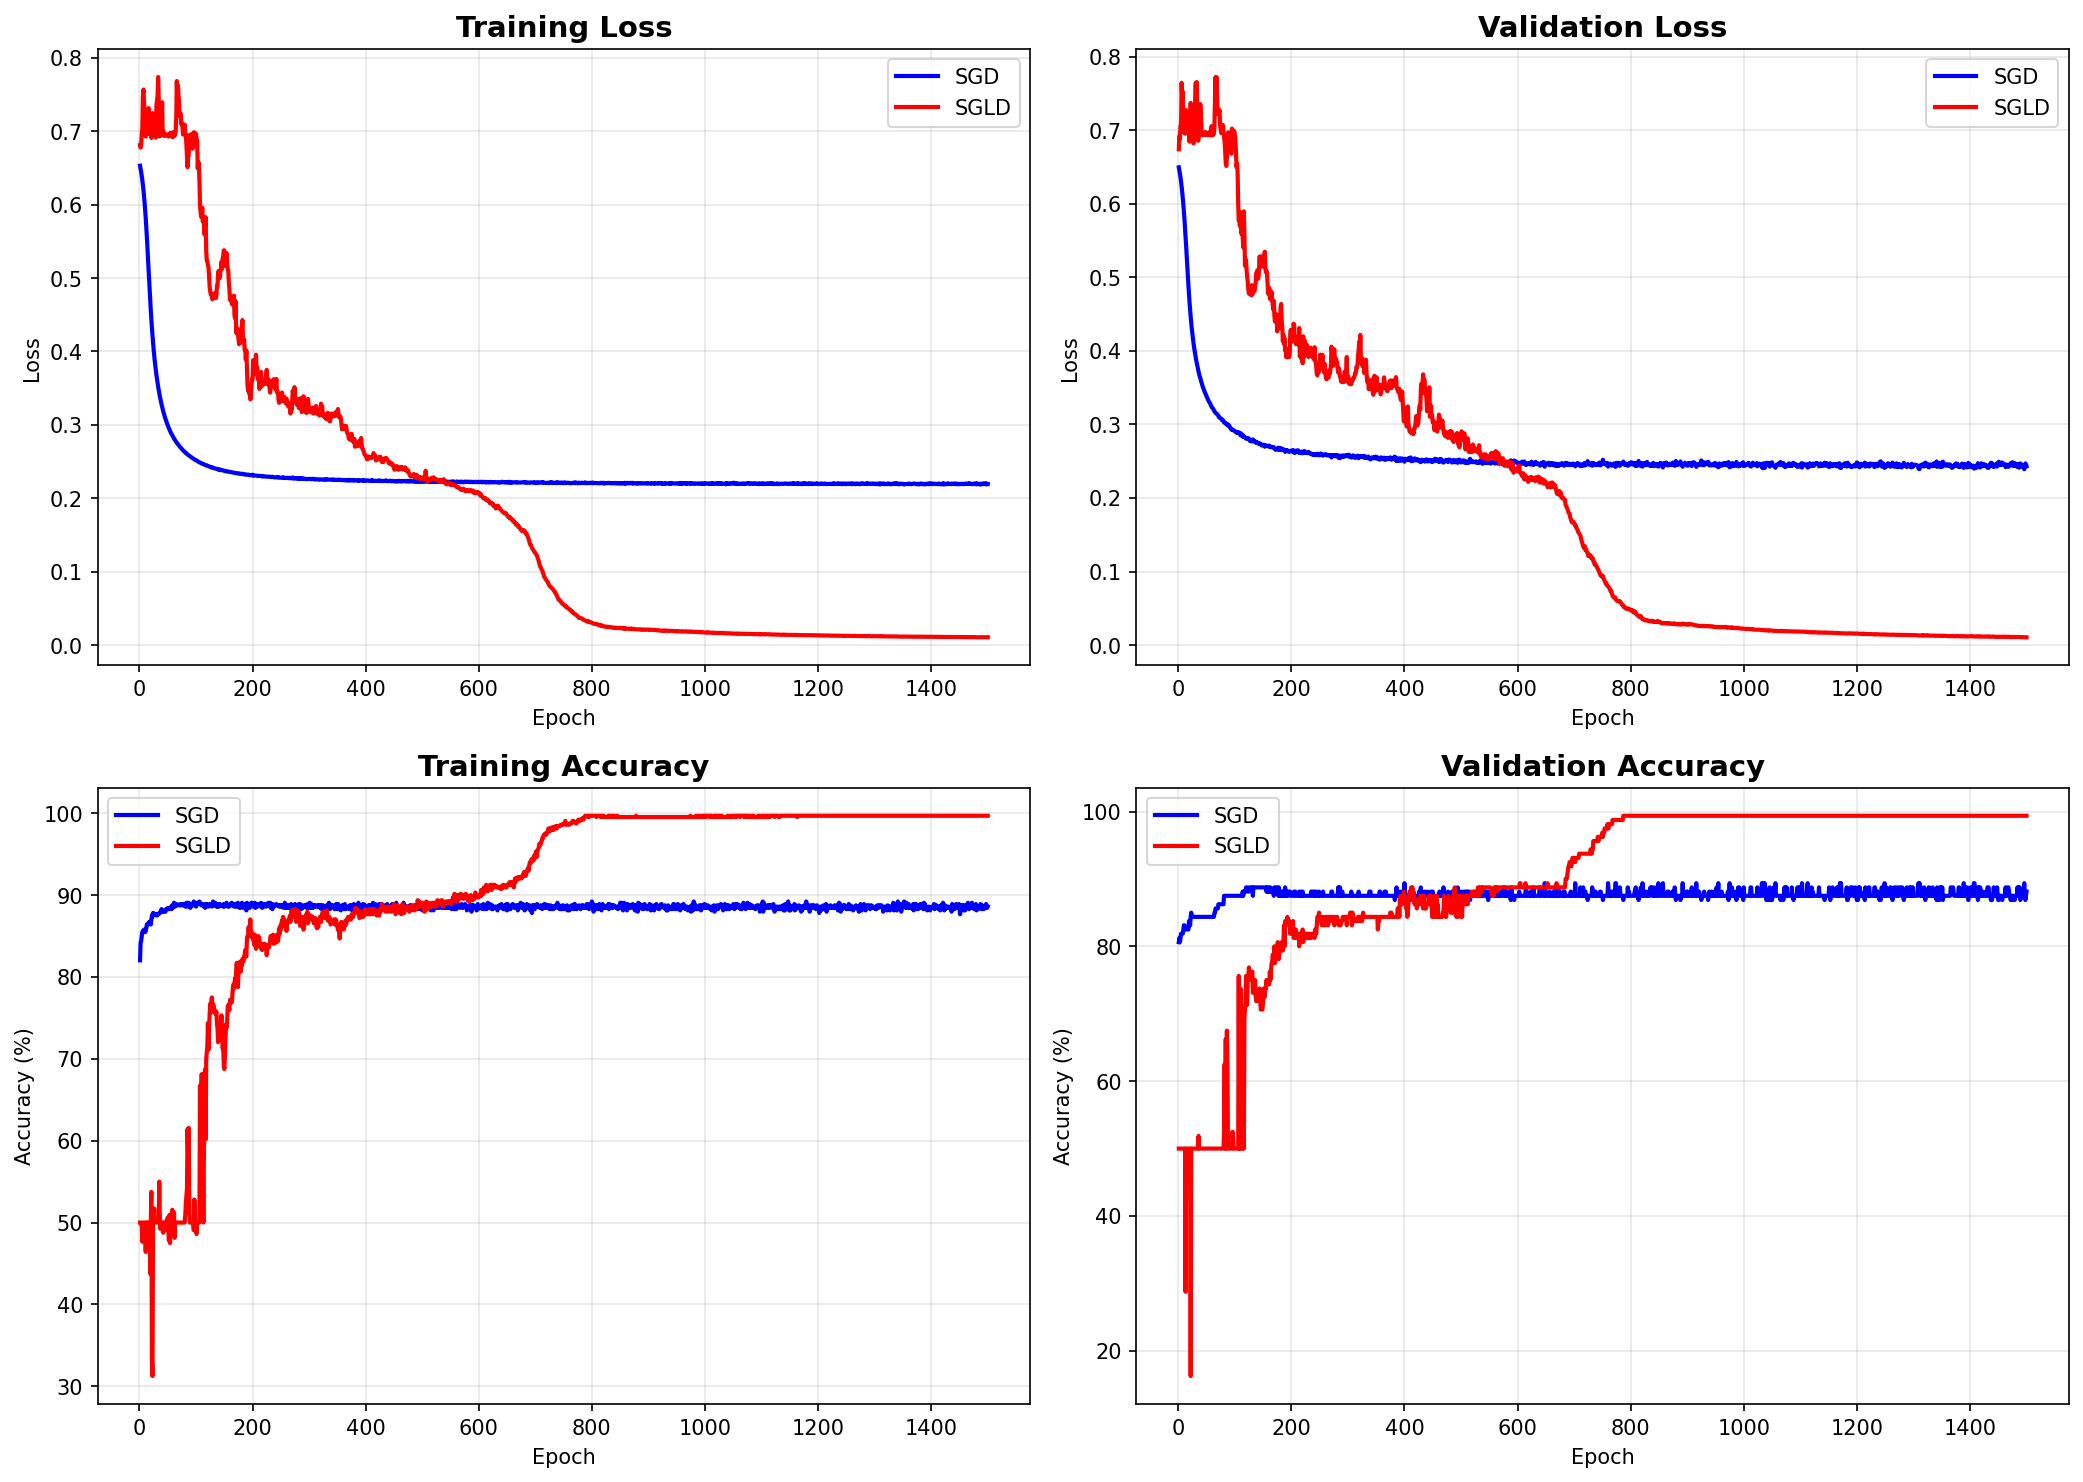
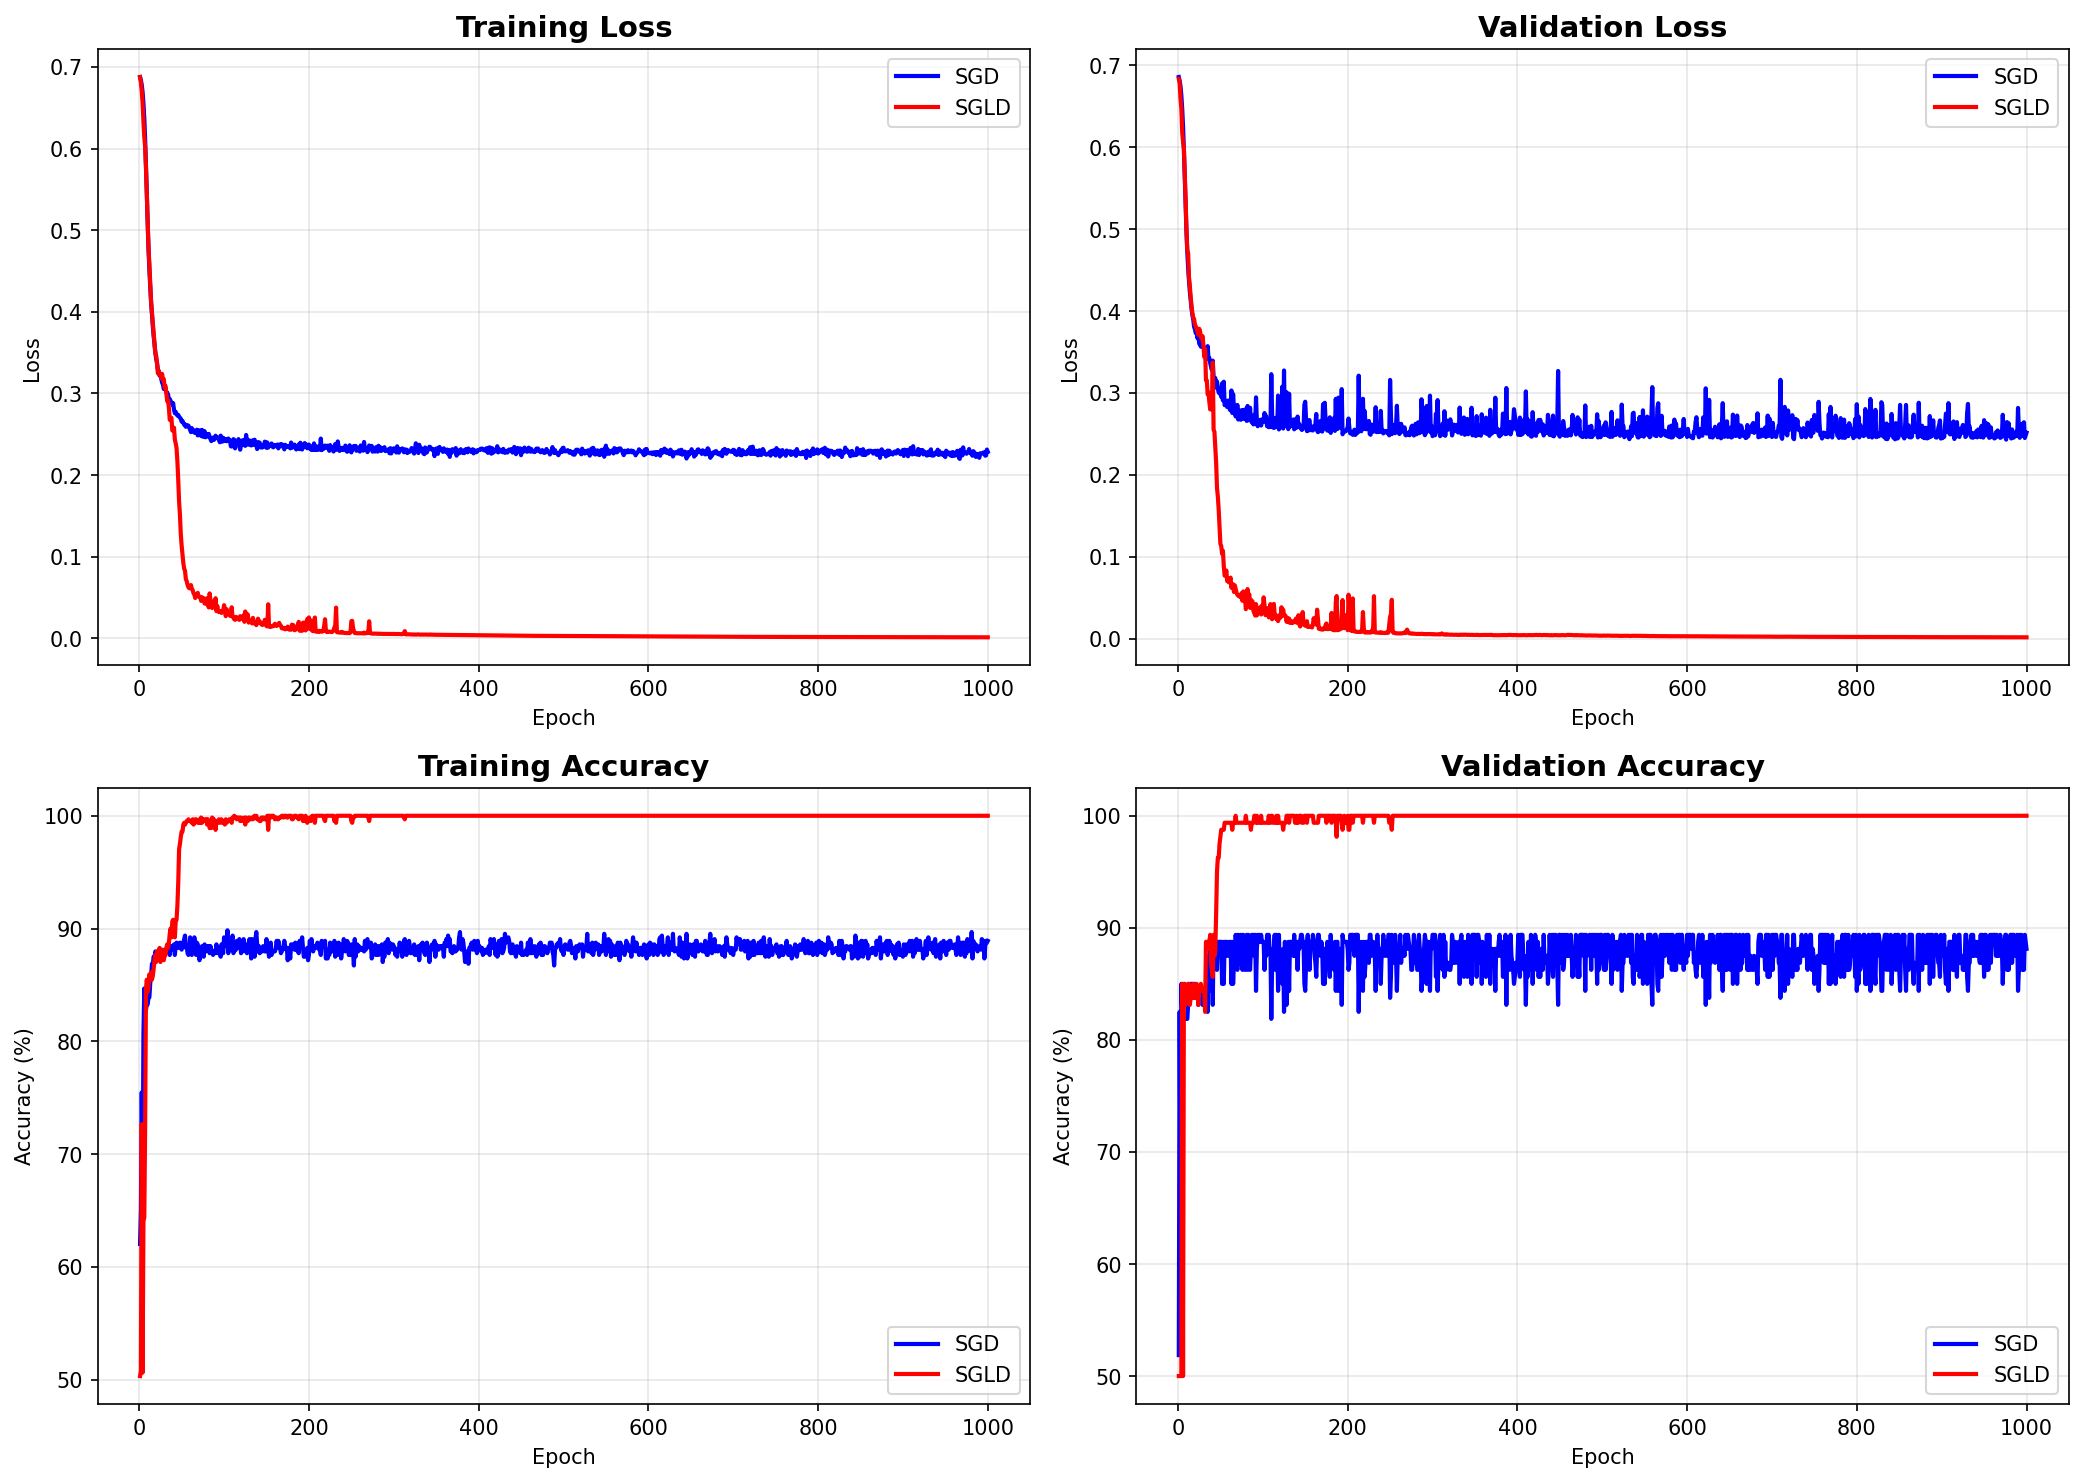
Improved experiment

diff --git a/submission/exp_2/experiment.py b/submission/exp_2/experiment.py
@@ -96,8 +96,8 @@ def train_model(model, train_loader, val_loader, optimizer, num_epochs, device, 
             else:
                 print(f'{optimizer_name} Epoch {epoch+1}: Train Acc: {train_acc:.1f}%, Val Acc: {val_acc:.1f}%')
         
-        # Save best models for ensembling (after epoch 500)
-        if epoch + 1 >= 500:
+        # Save model checkpoints every 100 epochs after epoch 500 (not based on best val loss)
+        if epoch + 1 >= 500 and (epoch + 1) % 100 == 0:
             checkpoint = {
                 'epoch': epoch + 1,
                 'state_dict': {k: v.clone().cpu() for k, v in model.state_dict().items()},
@@ -106,26 +106,19 @@ def train_model(model, train_loader, val_loader, optimizer, num_epochs, device, 
                 'val_loss': val_loss / len(val_loader)
             }
             
-            # Add to saved models and keep only top 5 by validation loss (lower is better)
+            # Add to saved models - save every 100 epochs, not based on performance
             saved_models.append(checkpoint)
-            saved_models.sort(key=lambda x: x['val_loss'])  # Sort by loss, ascending (lower is better)
             
-            if len(saved_models) > 5:
-                saved_models = saved_models[:5]
-                
-            # Print when we save a new best model or update the top 5
-            if len(saved_models) <= 5 and (epoch + 1) % 100 == 0:
-                max_val_loss = max(m['val_loss'] for m in saved_models) if saved_models else 0
-                print(f'  💾 Top 5 models: {len(saved_models)}/5, max val_loss: {max_val_loss:.4f}')
+            print(f'  💾 Saved checkpoint at epoch {epoch + 1}: Train Acc: {train_acc:.1f}%, Val Acc: {val_acc:.1f}%, Val Loss: {val_loss / len(val_loader):.4f}')
     
     training_time = time.time() - start_time
     print(f'{optimizer_name} Training Time: {training_time:.1f}s')
     
     if saved_models:
-        best_val_loss = min(m['val_loss'] for m in saved_models)  # Lower loss is better
-        worst_val_loss = max(m['val_loss'] for m in saved_models)
+        latest_epoch = max(m['epoch'] for m in saved_models)
+        earliest_epoch = min(m['epoch'] for m in saved_models)
         avg_val_loss = sum(m['val_loss'] for m in saved_models) / len(saved_models)
-        print(f'{optimizer_name} Saved {len(saved_models)} best models (val loss: {best_val_loss:.4f}-{worst_val_loss:.4f}, avg: {avg_val_loss:.4f})')
+        print(f'{optimizer_name} Saved {len(saved_models)} checkpoint models (epochs {earliest_epoch}-{latest_epoch}, avg val loss: {avg_val_loss:.4f})')
     
     return history, training_time, saved_models
 
@@ -246,10 +239,10 @@ def run_experiment():
     print("=" * 64)
     
     # Optimal configuration based on our experiments
-    BATCH_SIZE = 32
-    NUM_EPOCHS = 1500  # Extended training for clear differences
+    BATCH_SIZE = 16
+    NUM_EPOCHS = 1000  # Extended training for clear differences
     LR = 0.01  # Higher LR works well for small networks
-    TEMPERATURE = 0.05  # Moderate initial temperature
+    TEMPERATURE = 0.002  # Moderate initial temperature
     TEMPERATURE_DECAY = 0.9996  # Much slower decay to maintain exploration
     DEVICE = torch.device('cpu')
     
@@ -300,7 +293,7 @@ def run_experiment():
     
     # Ensemble evaluation
     print("\n" + "="*60)
-    print("ENSEMBLE PERFORMANCE COMPARISON")
+    print("ENSEMBLE PERFORMANCE COMPARISON (Regular Checkpoints)")
     print("="*60)
     
     sgd_ensemble_acc = evaluate_ensemble(sgd_models, test_loader, DEVICE)

diff --git a/submission/exp_2/model.py b/submission/exp_2/model.py
@@ -19,6 +19,12 @@ class SimpleMLP(nn.Module):
             nn.ReLU(),
             nn.Linear(hidden_size, hidden_size),
             nn.ReLU(),
+            nn.Linear(hidden_size, hidden_size),
+            nn.ReLU(),
+            nn.Linear(hidden_size, hidden_size),
+            nn.ReLU(),
+            nn.Linear(hidden_size, hidden_size),
+            nn.ReLU(),
             nn.Linear(hidden_size, num_classes)
         )
         
@@ -28,4 +34,4 @@ class SimpleMLP(nn.Module):
 
 def get_moons_model():
     """Get the model for moons classification - small and challenging."""
-    return SimpleMLP(input_size=2, hidden_size=2, num_classes=2)
+    return SimpleMLP(input_size=2, hidden_size=3, num_classes=2)

diff --git a/submission/exp_2/moons_loader.py b/submission/exp_2/moons_loader.py
@@ -9,7 +9,7 @@ from sklearn.model_selection import train_test_split
 import numpy as np
 
 
-def load_moons_data(n_samples=1000, noise=0.1, batch_size=64):
+def load_moons_data(n_samples=1000, noise=0.25, batch_size=64):
     """Generate and load moons dataset."""
     
     # Generate moons data
